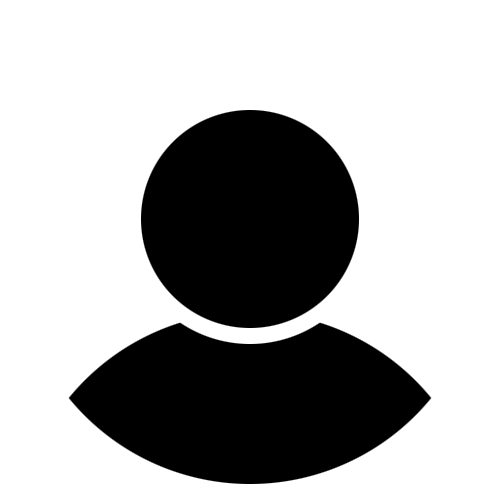
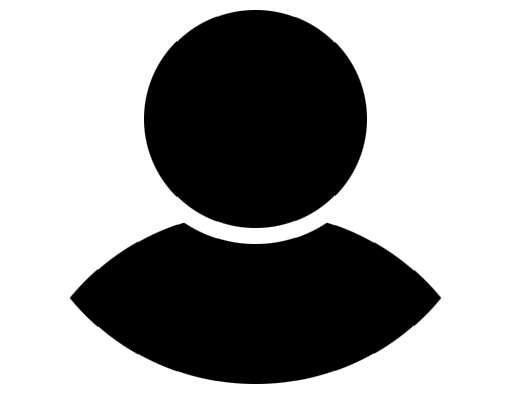
mas bonito

Changed region(s): [[0.12, 0.0, 0.87, 0.99]]

diff --git a/html/Login.html b/html/Login.html
@@ -6,7 +6,9 @@
 <body>
     <div align='center'>
         <form action = "/Sigma/Check_Login.py" method = "post">
-            <img src="Log_In.png" alt="Girl in a jacket" style="width:250px;height:250px;">
+            <br><h1>Login</h1><br/>
+            <img src="Log_In.png" alt="Girl in a jacket" style="width:300px;height:250px;">
+            <br><br><br>
             <br>Usuario: <input type = "text" name = "usuario" required> <br/>
             <br>Contrasena: <input type = "password" name = "contrasena" required> <br/>
             <br><input type = "submit" value = "Iniciar sesion"> <br/>
